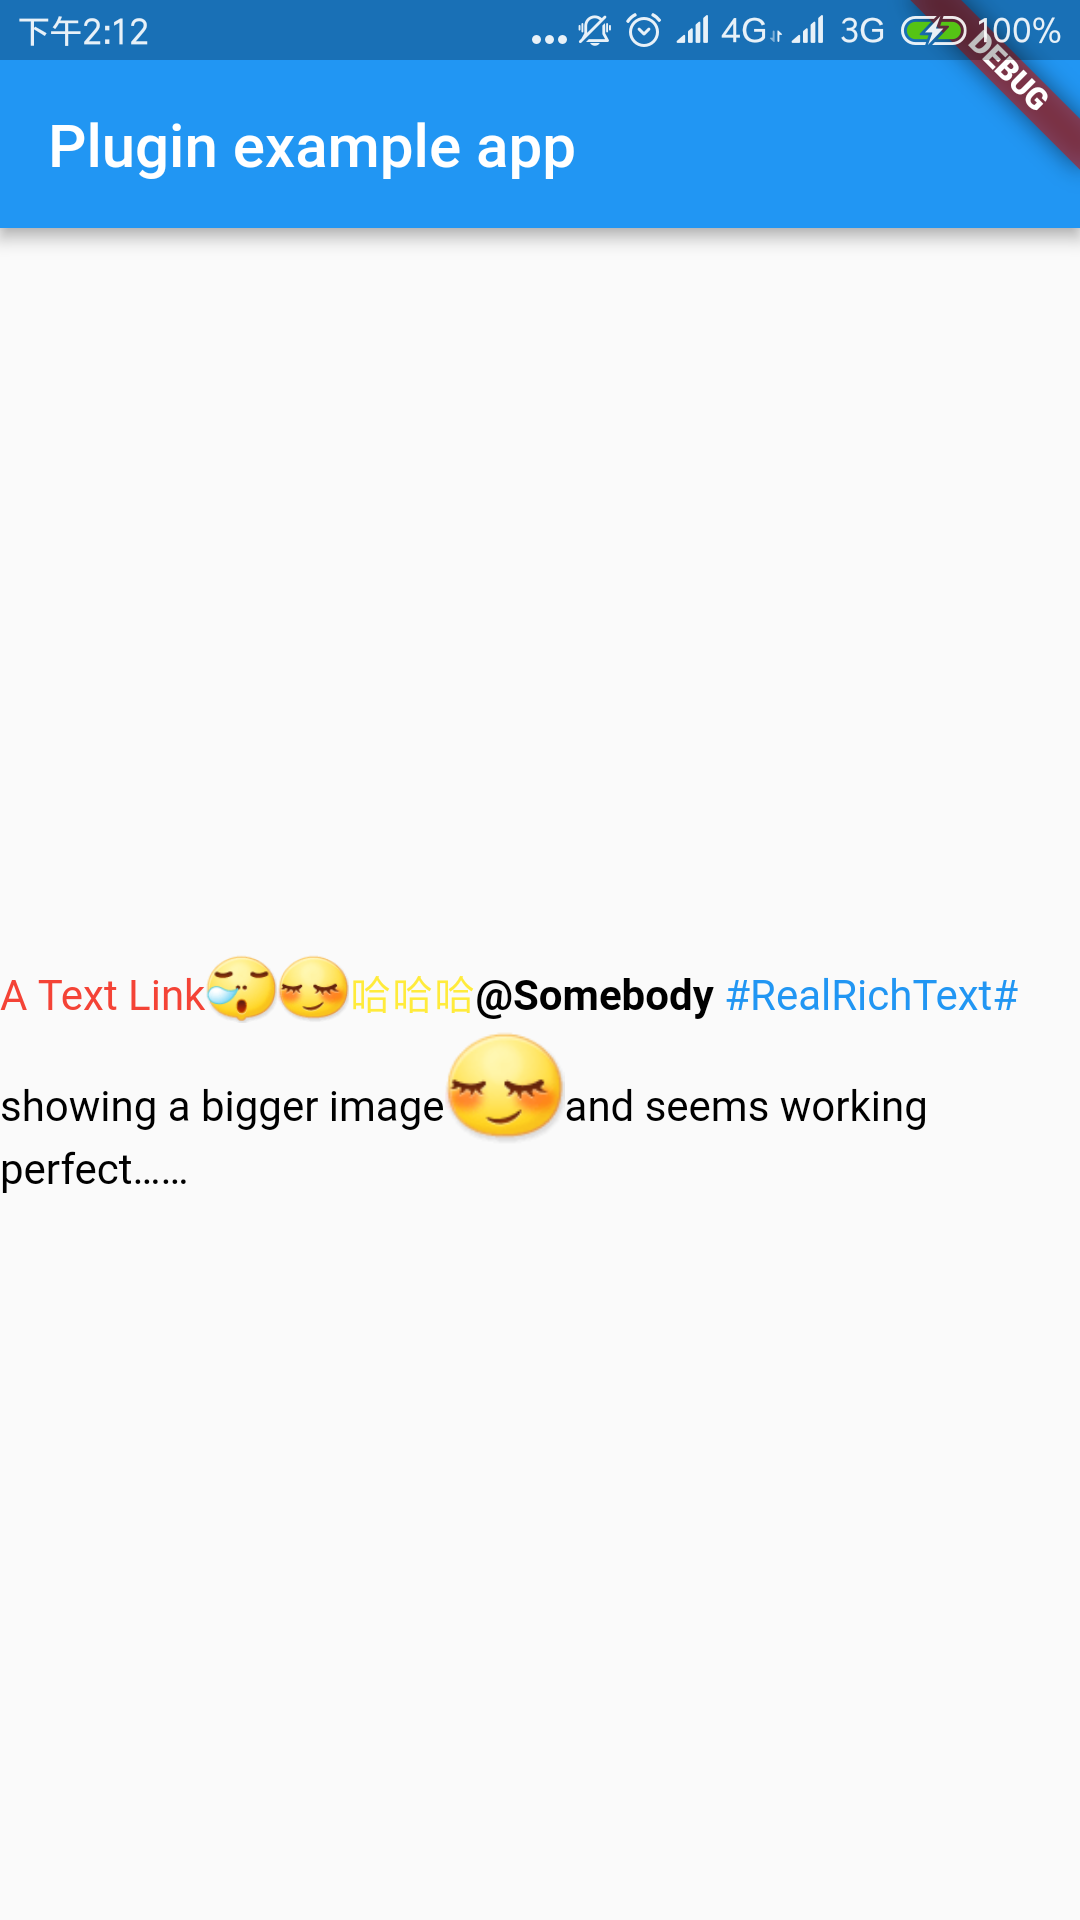
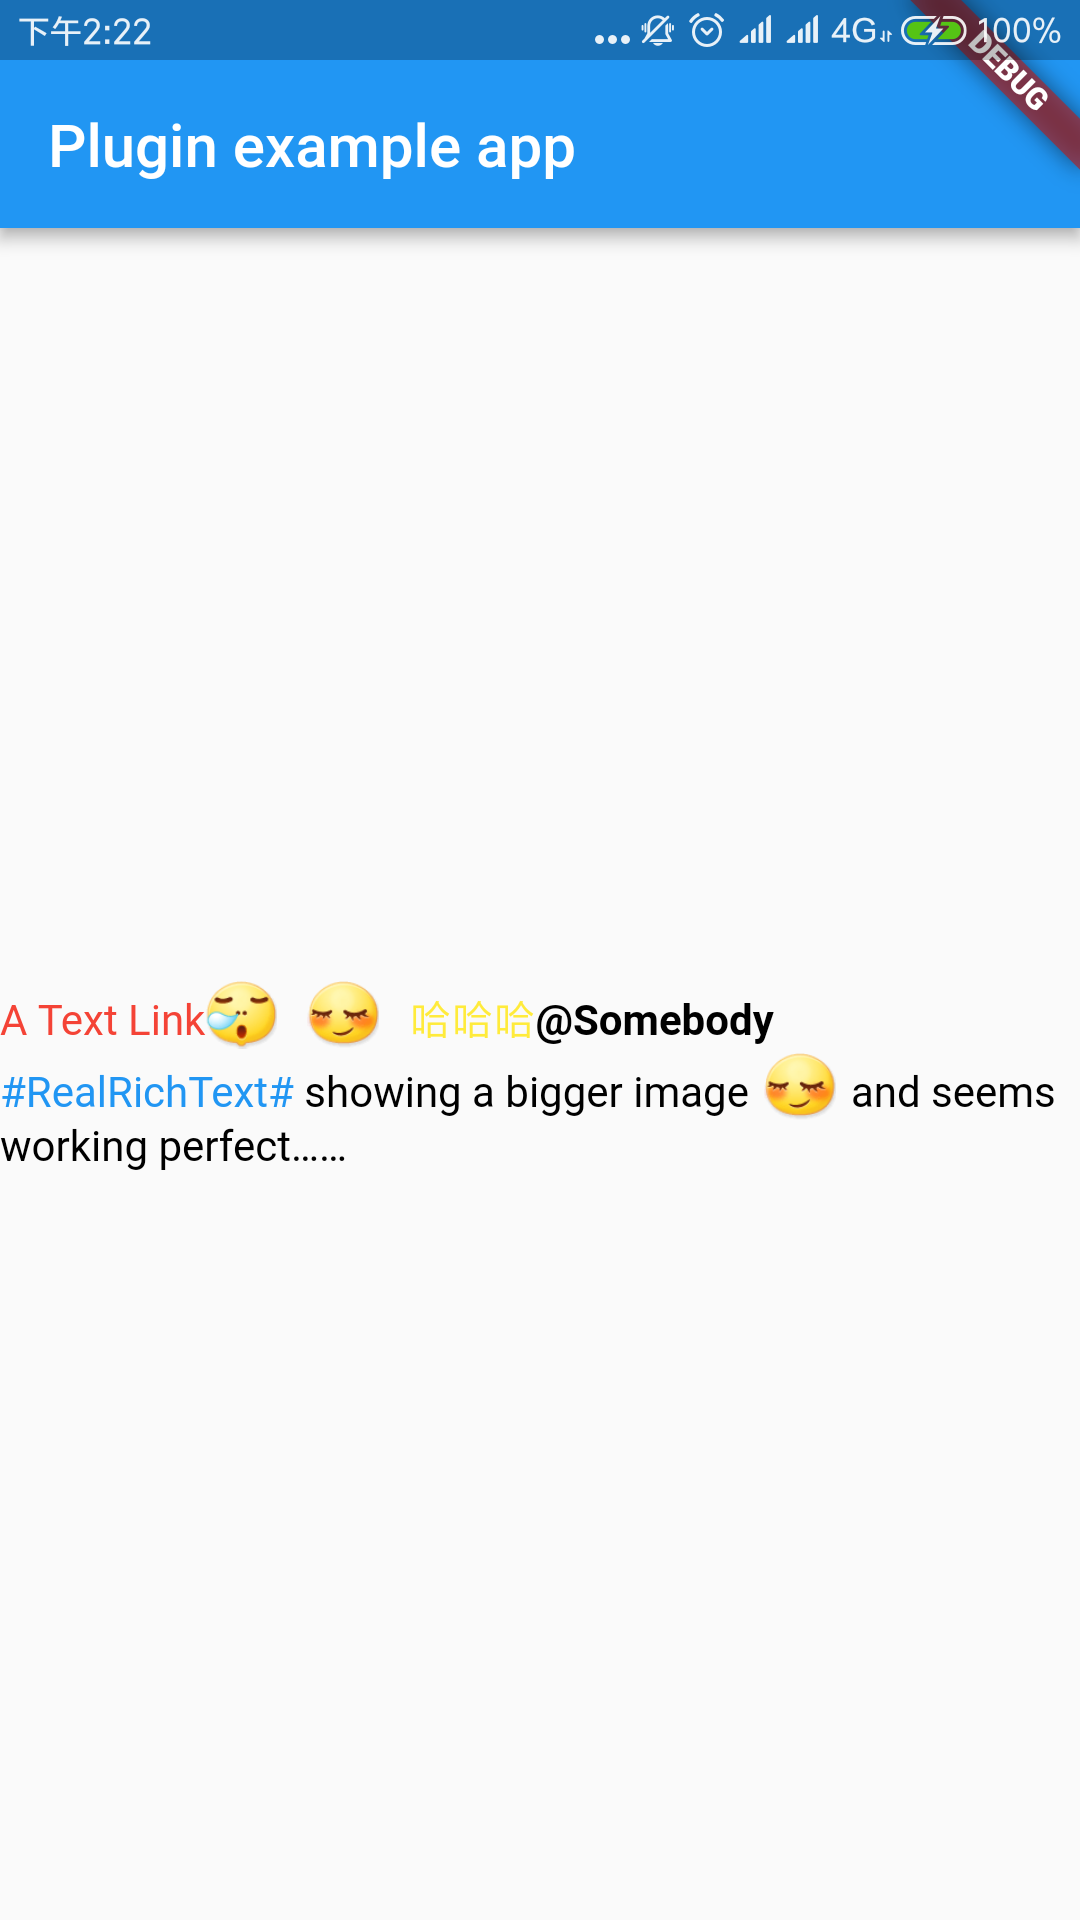
Add: support setting image margin

Changed region(s): [[0.0, 0.5, 0.9778, 0.625], [0.5194, 0.0, 0.825, 0.0312], [0.0917, 0.0, 0.1528, 0.0312]]

diff --git a/lib/real_rich_text.dart b/lib/real_rich_text.dart
@@ -112,46 +112,53 @@ class RealRichText extends Text {
 
 /// Since flutter engine does not support inline-image for now, we have to support this feature via a tricky solution:
 /// convert image to a particular TextSpan whose text always be \u200B(a zero-width-space).
-/// set letterSpacing to the required image width
-/// set fontSize to the required image height / 1.15
-///
+/// set letterSpacing by the required image width
+/// set fontSize by the required image height
 class ImageSpan extends TextSpan {
-  final double width;
-  final double height;
+  final double imageWidth;
+  final double imageHeight;
+  final EdgeInsets margin;
   final ImageProvider imageProvider;
-  final _ImageResolver _imageResolver;
+  final ImageResolver imageResolver;
   ImageSpan(
     this.imageProvider, {
-    this.width = 14.0,
-    this.height = 14.0,
+    this.imageWidth = 14.0,
+    this.imageHeight = 14.0,
+    this.margin,
     GestureRecognizer recognizer,
-  })  : _imageResolver = _ImageResolver(imageProvider),
+  })  : imageResolver = ImageResolver(imageProvider),
         super(
             style: TextStyle(
                 color: Colors.transparent,
-                letterSpacing: width,
+                letterSpacing:
+                    imageWidth + (margin == null ? 0 : margin.horizontal),
                 height: 1,
-                fontSize: height / 1.15),
+                fontSize: (imageHeight / 1.15) +
+                    (margin == null ? 0 : margin.vertical)),
             text: "\u200B",
             children: [],
             recognizer: recognizer);
 
   void updateImageConfiguration(BuildContext context) {
-    _imageResolver.updateImageConfiguration(context, width, height);
+    imageResolver.updateImageConfiguration(context, imageWidth, imageHeight);
   }
+
+  double get width => imageWidth + (margin == null ? 0 : margin.horizontal);
+
+  double get height => imageHeight + (margin == null ? 0 : margin.vertical);
 }
 
-typedef _ImageResolverListener = void Function();
+typedef ImageResolverListener = void Function();
 
-class _ImageResolver {
+class ImageResolver {
   final ImageProvider imageProvider;
 
   ImageStream _imageStream;
   ImageConfiguration _imageConfiguration;
-  ui.Image _image;
-  _ImageResolverListener _listener;
+  ui.Image image;
+  ImageResolverListener _listener;
 
-  _ImageResolver(this.imageProvider);
+  ImageResolver(this.imageProvider);
 
   /// set the ImageConfiguration from outside
   void updateImageConfiguration(
@@ -162,7 +169,7 @@ class _ImageResolver {
     );
   }
 
-  void resolve(_ImageResolverListener listener) {
+  void resolve(ImageResolverListener listener) {
     assert(_imageConfiguration != null);
 
     final ImageStream oldImageStream = _imageStream;
@@ -177,7 +184,7 @@ class _ImageResolver {
   }
 
   void _handleImageChanged(ImageInfo imageInfo, bool synchronousCall) {
-    _image = imageInfo.image;
+    image = imageInfo.image;
     _listener?.call();
   }
 
@@ -259,52 +266,8 @@ class _RealRichRenderParagraph extends RenderParagraph {
   void paint(PaintingContext context, Offset offset) {
     super.paint(context, offset);
 
-    final Canvas canvas = context.canvas;
-    final Rect bounds = offset & size;
-
-    debugPrint("_RealRichRenderParagraph offset=$offset bounds=$bounds");
-
-    canvas.save();
-    canvas.clipRect(bounds);
-
-    int textOffset = 0;
-    text.children.forEach((textSpan) {
-      if (textSpan is ImageSpan) {
-        // this is the top-center point of the ImageSpan
-        Offset offsetForCaret = getOffsetForCaret(
-          TextPosition(offset: textOffset),
-          bounds,
-        );
-        // this is the-top left point of the ImageSpan
-        Offset topLeftOffset = Offset(
-            offset.dx +
-                offsetForCaret.dx -
-                (textOffset == 0 ? 0 : textSpan.width / 2),
-            offset.dy + offsetForCaret.dy);
-        debugPrint(
-            "_RealRichRenderParagraph ImageSpan, textOffset = $textOffset, topLeftOffset=$topLeftOffset");
-
-        // if image is not ready: wait for async ImageInfo
-        if (textSpan._imageResolver._image == null) {
-          textSpan._imageResolver.resolve(() {
-            if (owner == null || !owner.debugDoingPaint) {
-              markNeedsPaint();
-            }
-          });
-          return;
-        }
-        // else: just paint it.
-        paintImage(
-          canvas: canvas,
-          rect: topLeftOffset & Size(textSpan.width, textSpan.height),
-          image: textSpan._imageResolver._image,
-          fit: BoxFit.scaleDown,
-        );
-      }
-      textOffset += textSpan.toPlainText().length;
-    });
-
-    canvas.restore();
+    // Here it is!
+    paintImageSpan(context, offset);
   }
 
   @override
@@ -312,7 +275,7 @@ class _RealRichRenderParagraph extends RenderParagraph {
     super.detach();
     text.children.forEach((textSpan) {
       if (textSpan is ImageSpan) {
-        textSpan._imageResolver.stopListening();
+        textSpan.imageResolver.stopListening();
       }
     });
   }
@@ -322,5 +285,64 @@ class _RealRichRenderParagraph extends RenderParagraph {
     super.performLayout();
 
     debugPrint("size = $size");
+  }
+
+  /// this method draws inline-image over blank text space.
+  void paintImageSpan(PaintingContext context, Offset offset) {
+    final Canvas canvas = context.canvas;
+    final Rect bounds = offset & size;
+
+    debugPrint("_RealRichRenderParagraph offset=$offset bounds=$bounds");
+
+    canvas.save();
+
+    int textOffset = 0;
+    text.children.forEach((textSpan) {
+      if (textSpan is ImageSpan) {
+        // this is the top-center point of the ImageSpan
+        Offset offsetForCaret = getOffsetForCaret(
+          TextPosition(offset: textOffset),
+          bounds,
+        );
+
+        // found this is a overflowed image. ignore it
+        if (textOffset != 0 &&
+            offsetForCaret.dx == 0 &&
+            offsetForCaret.dy == 0) {
+          return;
+        }
+
+        // this is the top-left point of the ImageSpan.
+        // Usually, offsetForCaret indicates the top-center offset
+        // except the first text which is always (0, 0)
+        Offset topLeftOffset = Offset(
+            offset.dx +
+                offsetForCaret.dx -
+                (textOffset == 0 ? 0 : textSpan.width / 2),
+            offset.dy + offsetForCaret.dy);
+        debugPrint(
+            "_RealRichRenderParagraph ImageSpan, textOffset = $textOffset, offsetForCaret=$offsetForCaret, topLeftOffset=$topLeftOffset");
+
+        // if image is not ready: wait for async ImageInfo
+        if (textSpan.imageResolver.image == null) {
+          textSpan.imageResolver.resolve(() {
+            if (owner == null || !owner.debugDoingPaint) {
+              markNeedsPaint();
+            }
+          });
+          return;
+        }
+        // else: just paint it. bottomCenter Alignment seems better...
+        paintImage(
+            canvas: canvas,
+            rect: topLeftOffset & Size(textSpan.width, textSpan.height),
+            image: textSpan.imageResolver.image,
+            fit: BoxFit.scaleDown,
+            alignment: Alignment.center);
+      }
+      textOffset += textSpan.toPlainText().length;
+    });
+
+    canvas.restore();
   }
 }

diff --git a/example/lib/main.dart b/example/lib/main.dart
@@ -29,14 +29,13 @@ class _MyAppState extends State<MyApp> {
             ),
             ImageSpan(
               AssetImage("packages/real_rich_text/images/emoji_9.png"),
-              width: 24,
-              height: 24,
+              imageWidth: 24,
+              imageHeight: 24,
             ),
-            ImageSpan(
-              AssetImage("packages/real_rich_text/images/emoji_10.png"),
-              width: 24,
-              height: 24,
-            ),
+            ImageSpan(AssetImage("packages/real_rich_text/images/emoji_10.png"),
+                imageWidth: 24,
+                imageHeight: 24,
+                margin: EdgeInsets.symmetric(horizontal: 10)),
             TextSpan(
               text: "哈哈哈",
               style: TextStyle(color: Colors.yellow, fontSize: 14),
@@ -64,11 +63,10 @@ class _MyAppState extends State<MyApp> {
               text: "showing a bigger image",
               style: TextStyle(color: Colors.black, fontSize: 14),
             ),
-            ImageSpan(
-              AssetImage("packages/real_rich_text/images/emoji_10.png"),
-              width: 40,
-              height: 40,
-            ),
+            ImageSpan(AssetImage("packages/real_rich_text/images/emoji_10.png"),
+                imageWidth: 24,
+                imageHeight: 24,
+                margin: EdgeInsets.symmetric(horizontal: 5)),
             TextSpan(
               text: "and seems working perfect……",
               style: TextStyle(color: Colors.black, fontSize: 14),

diff --git a/README.md b/README.md
@@ -49,14 +49,13 @@ class _MyAppState extends State<MyApp> {
             ),
             ImageSpan(
               AssetImage("packages/real_rich_text/images/emoji_9.png"),
-              width: 24,
-              height: 24,
+              imageWidth: 24,
+              imageHeight: 24,
             ),
-            ImageSpan(
-              AssetImage("packages/real_rich_text/images/emoji_10.png"),
-              width: 24,
-              height: 24,
-            ),
+            ImageSpan(AssetImage("packages/real_rich_text/images/emoji_10.png"),
+                imageWidth: 24,
+                imageHeight: 24,
+                margin: EdgeInsets.symmetric(horizontal: 10)),
             TextSpan(
               text: "哈哈哈",
               style: TextStyle(color: Colors.yellow, fontSize: 14),
@@ -84,11 +83,10 @@ class _MyAppState extends State<MyApp> {
               text: "showing a bigger image",
               style: TextStyle(color: Colors.black, fontSize: 14),
             ),
-            ImageSpan(
-              AssetImage("packages/real_rich_text/images/emoji_10.png"),
-              width: 40,
-              height: 40,
-            ),
+            ImageSpan(AssetImage("packages/real_rich_text/images/emoji_10.png"),
+                imageWidth: 24,
+                imageHeight: 24,
+                margin: EdgeInsets.symmetric(horizontal: 5)),
             TextSpan(
               text: "and seems working perfect……",
               style: TextStyle(color: Colors.black, fontSize: 14),
